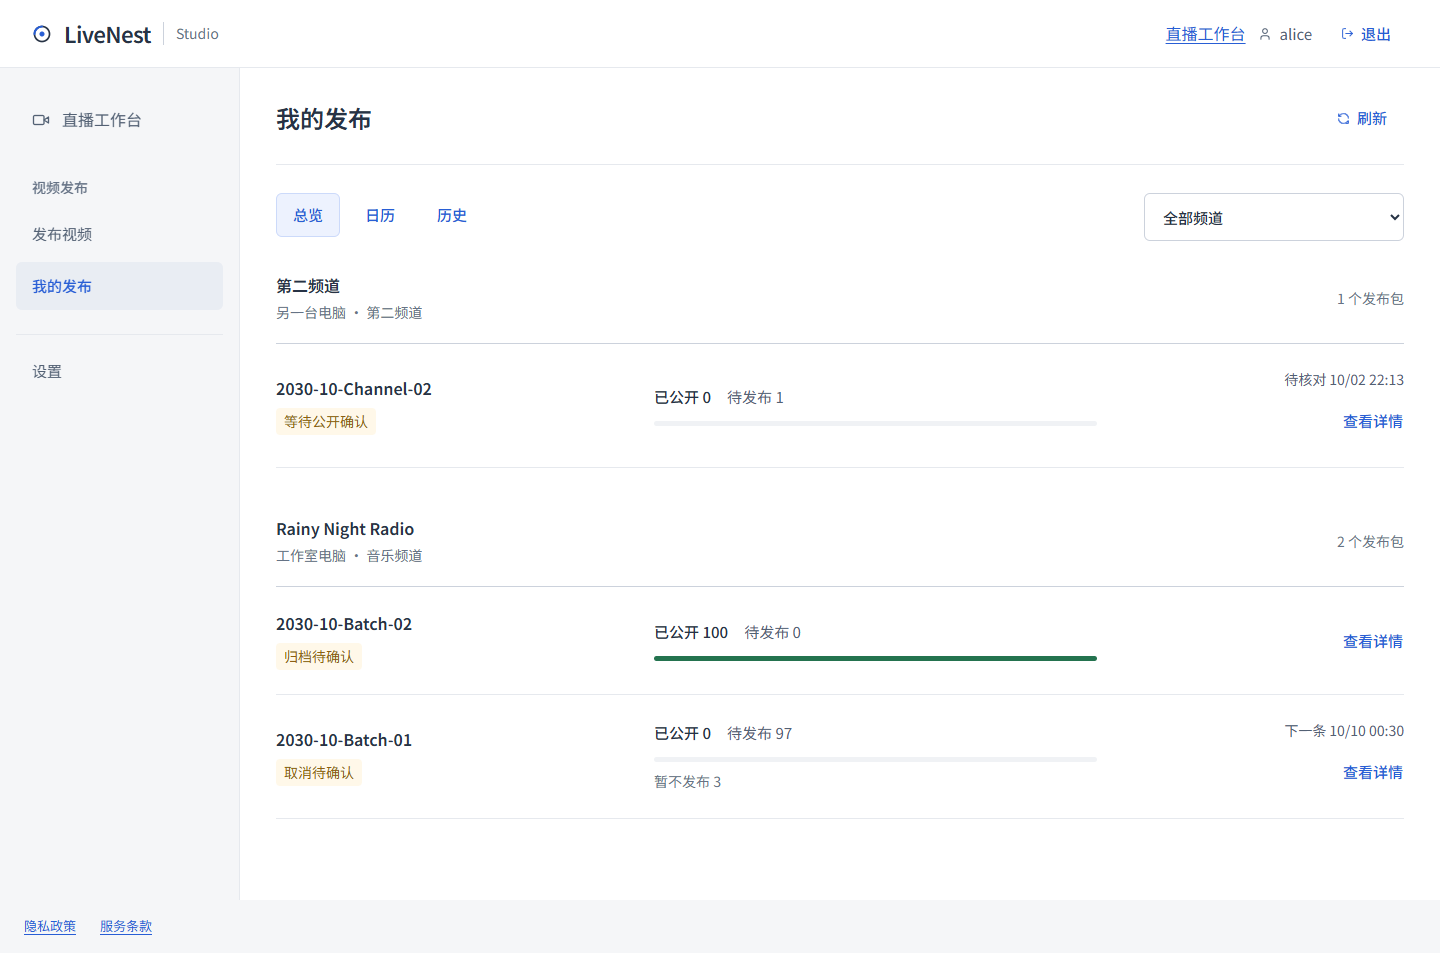
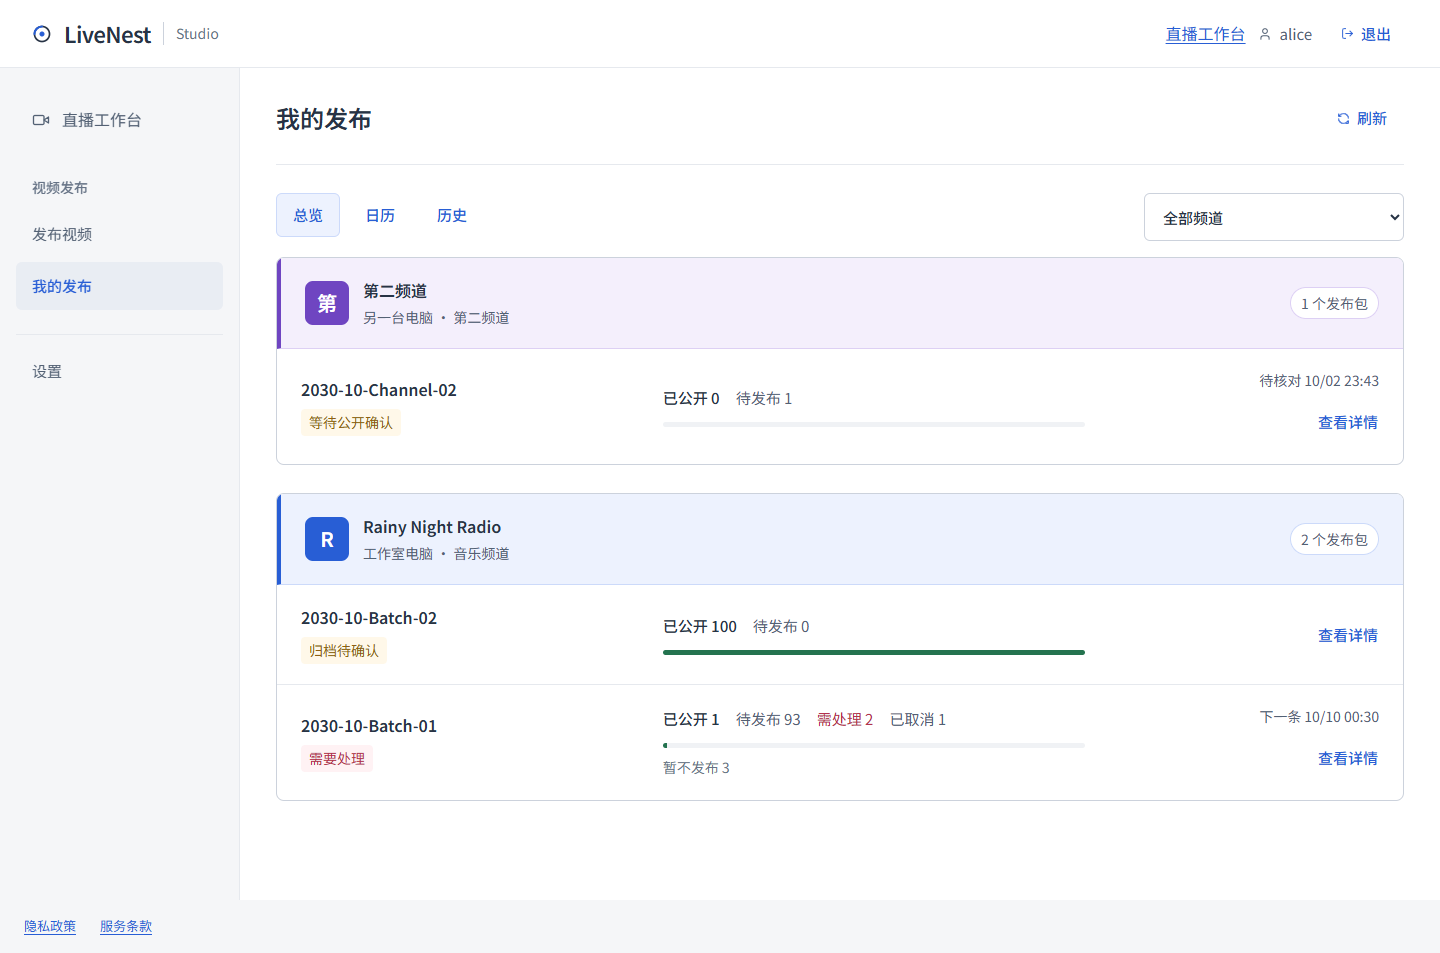
ui(publishing)：用频道分区与固定标识色区分发布包

diff --git a/src/app/publishing/my-publishing.module.css b/src/app/publishing/my-publishing.module.css
@@ -1,14 +1,23 @@
-/* 我的发布按频道分组的清晰列表与发布进度；只使用 LiveNest 语义变量，不影响向导样式。 */
+/* 我的发布使用独立频道分区和固定标识色；频道色只表示身份，状态与进度沿用 LiveNest 语义变量。 */
 .toolbar { display: flex; justify-content: space-between; align-items: flex-start; flex-wrap: wrap; gap: 16px; margin-bottom: 8px; }
 .toolbar nav { margin-bottom: 12px; }
 .channelFilter { width: 260px; max-width: 100%; }
-.channel { margin-bottom: 32px; }
-.channelHeading { display: flex; align-items: center; justify-content: space-between; gap: 16px; padding: 16px 0 20px; border-bottom: 1px solid var(--border-default); }
+.channel { margin-bottom: 28px; border: 1px solid var(--border-default); border-radius: var(--radius-md); overflow: hidden; background: var(--surface-base); }
+.blue { --channel-accent: var(--accent-primary); --channel-surface: var(--accent-subtle); --channel-border: var(--accent-border); }
+.violet { --channel-accent: #6f45c1; --channel-surface: #f4effc; --channel-border: #ddd0f4; }
+.teal { --channel-accent: #087f8c; --channel-surface: #eaf6f7; --channel-border: #bde0e4; }
+.indigo { --channel-accent: #495ab9; --channel-surface: #eff1fc; --channel-border: #d1d7f4; }
+.slate { --channel-accent: var(--text-secondary); --channel-surface: var(--bg-subtle); --channel-border: var(--border-default); }
+.channelHeading { display: flex; align-items: center; justify-content: space-between; flex-wrap: wrap; gap: 16px; padding: 20px 24px; border-left: 4px solid var(--channel-accent); border-bottom: 1px solid var(--channel-border); background: var(--channel-surface); }
+.channelIdentity { display: flex; align-items: center; gap: 14px; min-width: 0; flex: 1; }
+.channelAvatar { display: grid; place-items: center; flex: none; width: 44px; height: 44px; border-radius: var(--radius-md); background: var(--channel-accent); color: var(--surface-base); font-size: 20px; font-weight: 600; }
+.channelTitle { min-width: 0; }
 .channelHeading h2 { font-size: 20px; font-weight: 600; overflow-wrap: anywhere; }
-.channelHeading p, .channelHeading > span { color: var(--text-muted); font-size: 14px; }
+.channelHeading p { color: var(--text-secondary); font-size: 14px; }
 .channelHeading p { margin-top: 4px; }
-.channelHeading > span { flex: none; }
-.batch { display: grid; grid-template-columns: minmax(180px, 1fr) minmax(240px, 1.25fr) minmax(180px, .8fr); align-items: center; gap: 24px; padding: 24px 0; border-bottom: 1px solid var(--border-subtle); }
+.packageCount { flex: none; margin-left: auto; padding: 4px 10px; border: 1px solid var(--channel-border); border-radius: var(--radius-pill); background: var(--surface-base); color: var(--text-secondary); font-size: 14px; }
+.batch { display: grid; grid-template-columns: minmax(180px, 1fr) minmax(240px, 1.25fr) minmax(180px, .8fr); align-items: center; gap: 24px; padding: 20px 24px; border-bottom: 1px solid var(--border-subtle); }
+.batch:last-child { border-bottom: 0; }
 .batchHeading { min-width: 0; display: grid; justify-items: start; gap: 8px; }
 .batchHeading h3 { font-size: 16px; font-weight: 500; overflow-wrap: anywhere; }
 .status { font-size: 14px; line-height: 1.5; padding: 3px 8px; border-radius: var(--radius-xs); background: var(--surface-hover); color: var(--text-secondary); }
@@ -37,10 +46,11 @@
 @media (max-width: 600px) {
   .toolbar { display: block; margin-bottom: 16px; }
   .channelFilter { width: 100%; }
-  .channelHeading { align-items: flex-start; gap: 12px; }
+  .channelHeading { align-items: center; gap: 12px; padding: 16px; }
+  .channelIdentity { gap: 12px; flex-basis: 100%; }
   .channelHeading h2 { font-size: 18px; }
-  .channelHeading > span { padding-top: 3px; }
-  .batch { grid-template-columns: minmax(0, 1fr); gap: 16px; }
+  .packageCount { margin-left: 56px; }
+  .batch { grid-template-columns: minmax(0, 1fr); gap: 16px; padding: 20px 16px; }
   .batchHeading { display: flex; align-items: flex-start; justify-content: space-between; gap: 12px; }
   .batchHeading h3 { flex: 1; }
   .status { flex: none; }

diff --git a/src/app/publishing/my-publishing.tsx b/src/app/publishing/my-publishing.tsx
@@ -1,4 +1,4 @@
-/** 我的发布以频道和已确认批次为导览，公开进度来自真实报告，日历与历史共享原任务。 */
+/** 我的发布以带稳定频道标识的分区汇总批次，公开进度来自真实报告，日历与历史共享原任务。 */
 "use client";
 import { useEffect, useState } from "react";
 import { type PublishingPlan, type VideoJob } from "@/shared/publishing";
@@ -11,6 +11,14 @@ import { publishingOverview, type OverviewTarget, type PublishingOverviewBatch }
 import styles from "./my-publishing.module.css";
 
 type Props = { plans: PublishingPlan[]; jobs: VideoJob[]; allJobs?: VideoJob[]; targets?: OverviewTarget[]; busy: boolean; operate: JobOperation; archive(id: string): Promise<void> };
+
+/** 由不可变频道 ID 选择标识色；更名、筛选、分页不会变色，身份仍以名称和分区边界表示。 */
+function channelAccent(channelId: string) {
+  const accents = ["blue", "violet", "teal", "indigo", "slate"];
+  let hash = 2166136261;
+  for (const character of channelId) hash = Math.imul(hash ^ character.codePointAt(0)!, 16777619);
+  return accents[(hash >>> 0) % accents.length];
+}
 
 /** 一行批次展示真实完成量与剩余状态，详细任务及恢复操作在查看后再展开。 */
 function OverviewBatch({ batch, now, open }: { batch: PublishingOverviewBatch; now: number; open(): void }) {
@@ -45,8 +53,8 @@ export default function MyPublishing({ plans, jobs, allJobs, targets = [], busy,
     </div>
     {tab === "日历" ? <PublishingCalendar jobs={scopedJobs} /> : tab === "历史" ? <PublishingHistory key={choice} plans={plans} jobs={scopedJobs} targets={targets} busy={busy} operate={operate} />
       : batch ? <><button className="btn-ghost" onClick={() => setSelected("")}>返回总览</button><BatchExecution key={batch.key} plan={batch.plan} jobs={batch.jobs} allJobs={allJobs} busy={busy} operate={operate} archive={batch.plan ? archive : undefined} /></>
-        : <>{visible.map(value => { const pageBatches = value.batches.filter(item => pageKeys.has(item.key)); if (!pageBatches.length) return null; return <section className={styles.channel} key={value.id} aria-label={"频道 " + value.name}>
-          <header className={styles.channelHeading}><div><h2>{value.name}</h2>{value.device && <p>{value.device}</p>}</div><span>{value.batches.length} 个发布包</span></header>
+        : <>{visible.map(value => { const pageBatches = value.batches.filter(item => pageKeys.has(item.key)); if (!pageBatches.length) return null; const accent = channelAccent(value.id); return <section className={styles.channel + " " + styles[accent]} key={value.id} data-channel-id={value.id} data-channel-accent={accent} aria-label={"频道 " + value.name}>
+          <header className={styles.channelHeading}><div className={styles.channelIdentity}><span className={styles.channelAvatar} aria-hidden="true">{Array.from(value.name.trim())[0]?.toLocaleUpperCase() || "Y"}</span><div className={styles.channelTitle}><h2>{value.name}</h2>{value.device && <p>{value.device}</p>}</div></div><span className={styles.packageCount}>{value.batches.length} 个发布包</span></header>
           {pageBatches.map(item => <OverviewBatch key={item.key} batch={item} now={now} open={() => setSelected(item.key)} />)}
         </section>; })}<Pagination page={page} total={batches.length} change={setPage} />
           {!batches.length && <div className="publishing-empty"><h2>还没有配置好的发布包</h2></div>}

diff --git a/docs/YouTube普通视频发布.md b/docs/YouTube普通视频发布.md
@@ -20,6 +20,8 @@ Cloud 保存用户确认的发布意图；Windows Agent 直接读取本地视频
 
 已到达的步骤可直接点击导航返回，保存已填时间、排除项和文案编辑；内容或规则变化后必须重新检查/生成，不能跳过校验进入旧确认计划。进入第四步后仍可直接返回第二步：确认后的素材、配置和文案只读，时间通过“预览新排期 → 确认改期”修改原任务，不创建新上传。未完成自动项重新分配时间，手动项保持固定；完成、取消中、失败和需人工核对项锁定，暂停仍保持暂停。预览不生效，返回执行保留旧任务；确认后显示等待设备确认，原远端排期在新修订回读前仍占位。刷新恢复同账号当前计划与时间表单，服务端再次检查任务修订与占位。已确认快照不随配置修改改变。网页只通过 Agent 检测固定目录，不提供大文件网页上传或任意本机路径扫描。电脑客户端设置有“打开发布目录”；远程网页显示并复制目标电脑的路径。
 
+“我的发布 → 总览”以独立边框和浅色标题区划分频道，配合频道名称、头像及设备名称辨认归属。标识色由不可变频道 ID 决定，更名、筛选和分页不会改变；有限色板可能重复，不能仅依赖颜色识别频道。频道标识色与发布状态分开，完成进度仍为绿色，异常仍为红色。参考 [Atlassian Accents](https://atlassian.design/foundations/color/accents) 对标识色与语义状态色的区分。
+
 “我的发布 → 历史”使用紧凑结果列表：内容、发布包、频道、计划时间和结果对齐，搜索及结果筛选作用于全部缓存记录，再按每页25条显示。一次只展开一项详情，核对状态和查看视频放在详情中；小屏重排为紧凑行。计划时间不是实际公开时间，最近记录表示 Agent 最后报告时间；旧修订已观察到的公开事实不因新指令待确认而隐藏。页面读取不调用 YouTube。布局参考 [IBM Carbon Data table](https://www.carbondesignsystem.com/building-blocks/core/components/data-table/guidelines) 的工具栏、统一行高和渐进展示。
 
 ## 真实目录与发布包
@@ -151,7 +153,9 @@ retry_wait → 原阶段；needs_attention / paused / cancelled / failed
 
 新增验证覆盖发布包轻量扫描、100 包/排序、路径逃逸、音轨循环截断、转码兜底、缺工具、缓存与输出落位崩溃、源/输出变化、最终尺寸握手、旧 session 恢复、多 Slot/DST/占位竞争、手动覆盖、替代确认和归档恢复；独立账号覆盖凭据与 PKCE 隔离、永久频道占位、重启确认、按账号清理、旧实例清理兼容及频道缓存期限。本次增加确认后原任务改期、同批时刻归属、旧请求迟到、公开竞态和历史搜索/筛选回归；素材生成取消测试改用实际 spawn 事件同步，保持原超时和断言并确保失败清理。最终 `npm run verify` 的 76 个测试文件 / 611 个测试、8 项部署检查、类型与 lint、Next.js / Agent 构建通过，桌面编译通过。浏览器验收使用生产构建及合成 API；模拟 FFmpeg command runner 和 YouTube 端口不证明真实工具/频道接受结果。
 
-网页验收覆盖 320/390/1024/1440、100 包分页、四步全流程、点击步骤与草稿/未保存编辑保留、月历/日期清单/列表、多设备多频道总览、同机账号隔离、账号 Playlist 与删除、授权结果回到原账号，以及观察数据过期后的归档门槛。确认后第四步可回到前面步骤，预览不改任务，确认后任务 ID、视频关联、文案与最终尺寸保持；历史100条跨四页、全量搜索/结果筛选、仅展开一个详情及四宽无溢出已通过。28 张截图均为合成数据；localhost 实际代理另通过 100 条任务的检测、排期、确认、第四步回跳及同任务改期和历史表格检查。真实 Windows 工具、独立账号 OAuth、跨进程续传、真实项目 Unicode/Audit、Agent 关闭后公开、真实直播并行及跨多日滚动仍分别人工验收。
+网页验收覆盖 320/390/1024/1440、100 包分页、四步全流程、点击步骤与草稿/未保存编辑保留、月历/日期清单/列表、多设备多频道总览、同机账号隔离、账号 Playlist 与删除、授权结果回到原账号，以及观察数据过期后的归档门槛。确认后第四步可回到前面步骤，预览不改任务，确认后任务 ID、视频关联、文案与最终尺寸保持；历史100条跨四页、全量搜索/结果筛选、仅展开一个详情及四宽无溢出已通过。本次总览增加频道分区边框、标题底色与头像可见性、两频道实际配色差异，以及四宽、筛选、详情返回后的配色稳定性检查，生产构建浏览器 smoke 通过。28 张截图均为合成数据；localhost 实际代理此前通过 100 条任务的检测、排期、确认、第四步回跳及同任务改期和历史表格检查，本次更新总览展示。真实 Windows 工具、独立账号 OAuth、跨进程续传、真实项目 Unicode/Audit、Agent 关闭后公开、真实直播并行及跨多日滚动仍分别人工验收。
+
+频道分区修改后重新执行完整 `npm run verify`，76 文件 / 611 测试、8 项部署检查、类型、lint 及 Cloud/Agent 构建通过。首次在受限文件系统下的测试遇到 `realpath` 与 Windows 脚本权限问题，按正常权限重跑通过；未更改测试断言或门槛。
 
 发布文件：Cloud `cloud/publishing/state.json`（含 plans）；Agent `agent/publishing/entries.enc`；本机 Working 生成记录和归档记录。继续使用旧加密密钥。异常遗留锁沿用人工核对流程，禁止删除日志来绕过恢复。
 
